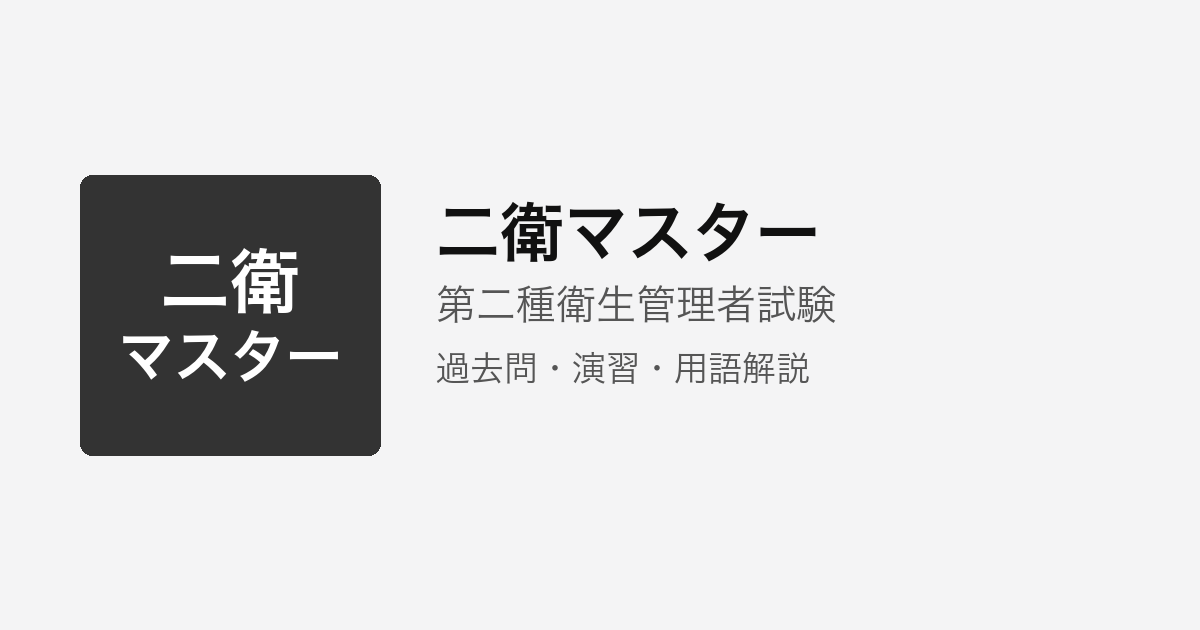
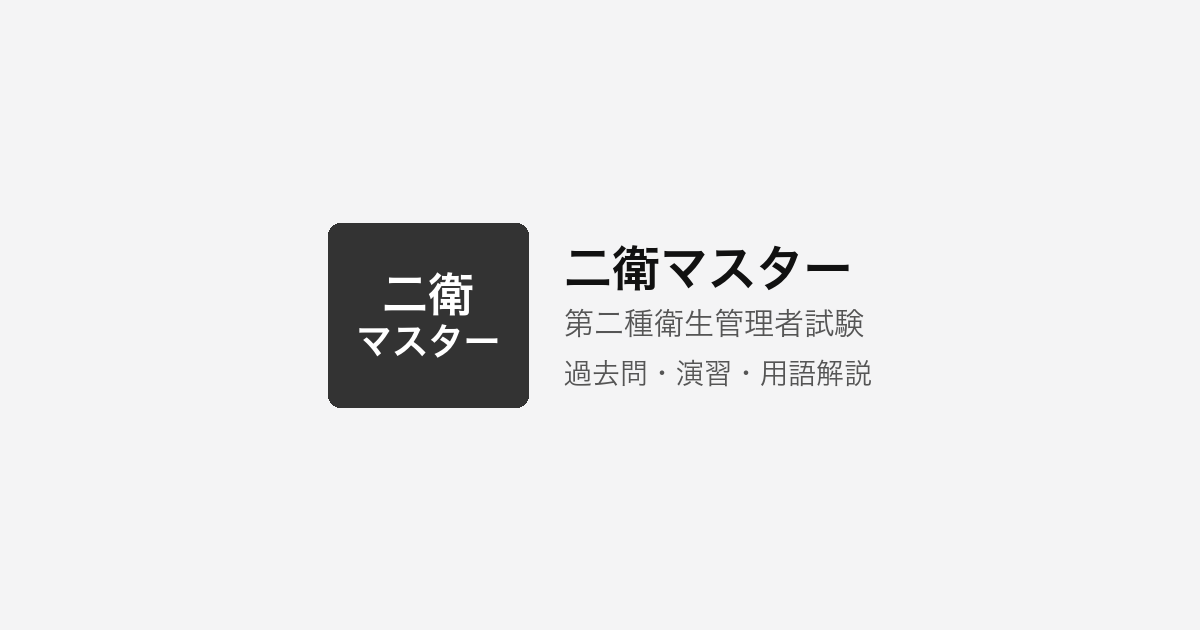
fix: OGP 画像の見切れを修正（中央安全域レイアウト）
SNS プレビューの 1:1 クロップでもロゴが切れないよう再生成した。

Changed region(s): [[0.0617, 0.2714, 0.74, 0.7238]]

diff --git a/tools/brand_assets.py b/tools/brand_assets.py
@@ -18,10 +18,38 @@ from tools.site_config import (
     theme,
 )
 
-FONT_BOLD = "/System/Library/Fonts/ヒラギノ角ゴシック W6.ttc"
-FONT_REG = "/System/Library/Fonts/ヒラギノ角ゴシック W3.ttc"
 BRAND_DIR = "assets/brand"
 MARKER = "<!--BRAND_ASSET_HEAD-->"
+OG_WIDTH = 1200
+OG_HEIGHT = 630
+# SNS の 1:1 中央クロップ（630×630）でも切れないよう、コンテンツ幅をこの範囲に収める
+OG_SAFE_WIDTH = 620
+
+
+def _font_candidates(*, bold: bool) -> list[Path]:
+    if bold:
+        return [
+            Path("/System/Library/Fonts/ヒラギノ角ゴシック W6.ttc"),
+            Path("/usr/share/fonts/opentype/noto/NotoSansCJK-Bold.ttc"),
+            Path("/usr/share/fonts/truetype/noto/NotoSansCJK-Bold.ttc"),
+            Path("/usr/share/fonts/truetype/dejavu/DejaVuSans-Bold.ttf"),
+            Path("/usr/share/fonts/truetype/liberation/LiberationSans-Bold.ttf"),
+        ]
+    return [
+        Path("/System/Library/Fonts/ヒラギノ角ゴシック W3.ttc"),
+        Path("/usr/share/fonts/opentype/noto/NotoSansCJK-Regular.ttc"),
+        Path("/usr/share/fonts/truetype/noto/NotoSansCJK-Regular.ttc"),
+        Path("/usr/share/fonts/truetype/dejavu/DejaVuSans.ttf"),
+        Path("/usr/share/fonts/truetype/liberation/LiberationSans-Regular.ttf"),
+    ]
+
+
+def _resolve_font_path(*, bold: bool) -> str:
+    for path in _font_candidates(bold=bold):
+        if path.is_file():
+            return str(path)
+    kind = "bold" if bold else "regular"
+    raise FileNotFoundError(f"No {kind} font found for brand asset generation")
 
 
 def theme_ink() -> str:
@@ -57,7 +85,7 @@ def assets_ready(site_root: Path | None = None) -> bool:
 def _fit_font(draw, text: str, max_w: int, start_size: int, *, bold: bool = True):
     from PIL import ImageFont
 
-    path = FONT_BOLD if bold else FONT_REG
+    path = _resolve_font_path(bold=bold)
     size = start_size
     while size >= 6:
         font = ImageFont.truetype(path, size, index=0)
@@ -148,42 +176,130 @@ def render_favicon(size: int):
 def render_og_image():
     from PIL import Image, ImageDraw
 
-    w, h = 1200, 630
+    w, h = OG_WIDTH, OG_HEIGHT
     top, bottom = brand_logo_lines()
     name = brand_name()
     exam = exam_name()
+    tagline = "過去問・演習・用語解説"
     bg = theme_page_bg()
     ink = theme_ink()
-    text = theme_text()
+    text_col = theme_text()
     muted = theme_text_muted()
+
+    measure = Image.new("RGB", (w, h), bg)
+    mdraw = ImageDraw.Draw(measure)
+
+    gap = 36
+    name_gap, exam_gap = 16, 22
+    layout = None
+    for box_w in (200, 180, 160, 140, 120):
+        box_h = max(110, int(box_w * 0.92))
+        text_max_w = OG_SAFE_WIDTH - box_w - gap
+        name_font, name_size = _fit_font(mdraw, name, text_max_w, 48, bold=True)
+        exam_font, exam_size = _fit_font(mdraw, exam, text_max_w, 30, bold=False)
+        tag_font, tag_size = _fit_font(mdraw, tagline, text_max_w, 28, bold=False)
+        text_w = max(
+            mdraw.textlength(name, font=name_font),
+            mdraw.textlength(exam, font=exam_font),
+            mdraw.textlength(tagline, font=tag_font),
+        )
+        text_h = name_size + name_gap + exam_size + exam_gap + tag_size
+        content_w = box_w + gap + int(text_w)
+        content_h = max(box_h, text_h)
+        if content_w <= OG_SAFE_WIDTH:
+            layout = {
+                "box_w": box_w,
+                "box_h": box_h,
+                "gap": gap,
+                "name_font": name_font,
+                "name_size": name_size,
+                "exam_font": exam_font,
+                "exam_size": exam_size,
+                "tag_font": tag_font,
+                "tag_size": tag_size,
+                "text_h": text_h,
+                "content_w": content_w,
+                "content_h": content_h,
+            }
+            break
 
     img = Image.new("RGB", (w, h), bg)
     draw = ImageDraw.Draw(img)
 
-    box_w, box_h = 300, 280
-    box_x, box_y = 80, (h - box_h) // 2
+    if layout is None:
+        # 横並びが収まらない場合: ロゴ＋テキストを縦積みで中央配置
+        mark_w, mark_h = 220, 200
+        text_max_w = OG_SAFE_WIDTH - 40
+        name_font, name_size = _fit_font(mdraw, name, text_max_w, 44, bold=True)
+        exam_font, exam_size = _fit_font(mdraw, exam, text_max_w, 28, bold=False)
+        tag_font, tag_size = _fit_font(mdraw, tagline, text_max_w, 26, bold=False)
+        stack_gap, line_gap = 28, 14
+        content_w = int(
+            max(
+                mark_w,
+                mdraw.textlength(name, font=name_font),
+                mdraw.textlength(exam, font=exam_font),
+                mdraw.textlength(tagline, font=tag_font),
+            )
+        )
+        content_h = mark_h + stack_gap + name_size + line_gap + exam_size + line_gap + tag_size
+        block_x = (w - content_w) // 2
+        block_y = (h - content_h) // 2
+        _draw_logo_mark(
+            draw,
+            x=block_x + (content_w - mark_w) // 2,
+            y=block_y,
+            width=mark_w,
+            height=mark_h,
+            top=top,
+            bottom=bottom,
+            bg=ink,
+            fg="#ffffff",
+            radius=12,
+        )
+        ty = block_y + mark_h + stack_gap
+        draw.text((block_x + (content_w - mdraw.textlength(name, font=name_font)) / 2, ty), name, fill=text_col, font=name_font)
+        ty += name_size + line_gap
+        draw.text((block_x + (content_w - mdraw.textlength(exam, font=exam_font)) / 2, ty), exam, fill=muted, font=exam_font)
+        ty += exam_size + line_gap
+        draw.text((block_x + (content_w - mdraw.textlength(tagline, font=tag_font)) / 2, ty), tagline, fill=muted, font=tag_font)
+        return img
+
+    block_x = (w - layout["content_w"]) // 2
+    block_y = (h - layout["content_h"]) // 2
+    box_x = block_x
+    box_y = block_y + (layout["content_h"] - layout["box_h"]) // 2
+    tx = block_x + layout["box_w"] + layout["gap"]
+    ty = block_y + (layout["content_h"] - layout["text_h"]) // 2
+
     _draw_logo_mark(
         draw,
         x=box_x,
         y=box_y,
-        width=box_w,
-        height=box_h,
+        width=layout["box_w"],
+        height=layout["box_h"],
         top=top,
         bottom=bottom,
         bg=ink,
         fg="#ffffff",
         radius=12,
     )
-
-    tx = box_x + box_w + 56
-    name_font, name_size = _fit_font(draw, name, w - tx - 80, 64, bold=True)
-    exam_font, exam_size = _fit_font(draw, exam, w - tx - 80, 40, bold=False)
-    tagline = "過去問・演習・用語解説"
-    tag_font, _ = _fit_font(draw, tagline, w - tx - 80, 34, bold=False)
-
-    draw.text((tx, box_y + 24), name, fill=text, font=name_font)
-    draw.text((tx, box_y + 24 + name_size + 20), exam, fill=muted, font=exam_font)
-    draw.text((tx, box_y + 24 + name_size + 20 + exam_size + 28), tagline, fill=muted, font=tag_font)
+    draw.text((tx, ty), name, fill=text_col, font=layout["name_font"])
+    draw.text(
+        (tx, ty + layout["name_size"] + name_gap),
+        exam,
+        fill=muted,
+        font=layout["exam_font"],
+    )
+    draw.text(
+        (
+            tx,
+            ty + layout["name_size"] + name_gap + layout["exam_size"] + exam_gap,
+        ),
+        tagline,
+        fill=muted,
+        font=layout["tag_font"],
+    )
     return img
 
 

diff --git a/tools/generate_brand_assets.py b/tools/generate_brand_assets.py
@@ -12,17 +12,23 @@ SHELL = Path(__file__).resolve().parents[1]
 if str(SHELL) not in sys.path:
     sys.path.insert(0, str(SHELL))
 
-from tools.brand_assets import write_brand_assets  # noqa: E402
+from tools.brand_assets import assets_ready, write_brand_assets  # noqa: E402
 
 
 def main() -> int:
     parser = argparse.ArgumentParser(description="ファビコン・OGP 画像を生成")
     parser.add_argument("--target", type=Path, default=Path.cwd(), help="サイトルート")
+    parser.add_argument("--force", action="store_true", help="既存 PNG があっても再生成する")
     args = parser.parse_args()
     target = args.target.resolve()
     if not (target / "site-config.json").is_file():
         print(f"site-config.json not found: {target}", file=sys.stderr)
         return 1
+    if assets_ready(target) and not args.force:
+        out = target / "assets" / "brand"
+        files = sorted(p.name for p in out.iterdir() if p.is_file())
+        print(f"Brand assets already exist in {out}: {', '.join(files)}; skip")
+        return 0
     out = write_brand_assets(target)
     files = sorted(p.name for p in out.iterdir() if p.is_file())
     print(f"Wrote {len(files)} files to {out}: {', '.join(files)}")